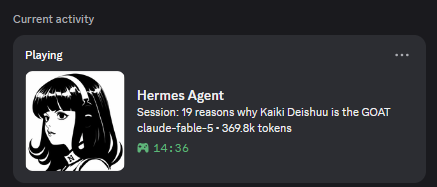
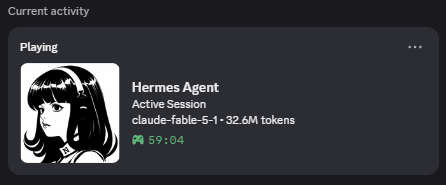
feat: default session_title_mode to generic and refresh preview asset

diff --git a/tests/test_plugin.py b/tests/test_plugin.py
@@ -472,3 +472,27 @@ def test_default_config_still_shows_the_activity_label(plugin, monkeypatch):
     assert payload["details"] == "[Running Terminal Command] Secret Project"
     assert payload["large_text"] == "Hermes Agent — Running Terminal Command"
     assert payload["state"] == "model-x • 4.2k tokens"
+
+
+def test_unconfigured_session_title_mode_defaults_to_generic(plugin, monkeypatch):
+    """When privacy config omits session_title_mode, it falls back to generic ('Active Session')."""
+    config = {
+        "presence": {"large_image": "hermes_logo", "large_text": "Hermes Agent"},
+        "privacy": {},
+    }
+    monkeypatch.setattr(plugin, "_load_config", lambda: config)
+    monkeypatch.setattr(
+        plugin.DiscordRPCPlugin,
+        "get_active_session_details",
+        lambda self: {"title": "Confidential Restructure", "model": "model-x", "total_tokens": 4242},
+    )
+
+    instance = plugin.DiscordRPCPlugin()
+    instance.rpc = _CapturingRPC()
+    instance.is_connected = True
+    instance.set_status("Active", hold=True)
+    payload = instance.rpc.updates[-1]
+
+    assert payload["details"] == "Active Session"
+    assert "Confidential Restructure" not in (payload["details"] or "")
+

diff --git a/__init__.py b/__init__.py
@@ -287,7 +287,7 @@ class DiscordRPCPlugin:
                 hide_model = bool(privacy.get("hide_model", False))
                 hide_tokens = bool(privacy.get("hide_tokens", False))
                 hide_tool = bool(privacy.get("hide_tool_status", False))
-                title_mode = str(privacy.get("session_title_mode", "full"))
+                title_mode = str(privacy.get("session_title_mode", "generic"))
 
                 if stealth:
                     details_str = None

diff --git a/README.md b/README.md
@@ -2,7 +2,7 @@
 
 [![CI](https://github.com/DarRahman/hermes-discord-presence/actions/workflows/validate.yml/badge.svg)](https://github.com/DarRahman/hermes-discord-presence/actions/workflows/validate.yml)
 [![Official Hermes Catalog](https://img.shields.io/badge/hermes--catalog-official-blueviolet)](https://hermes-agent.nousresearch.com/docs/plugins/hermes-discord-rpc)
-[![Plugin Version](https://img.shields.io/badge/version-v1.2.2-orange)](plugin.yaml)
+[![Plugin Version](https://img.shields.io/badge/version-v1.2.3-orange)](plugin.yaml)
 [![Python Version](https://img.shields.io/badge/python-3.10%2B-blue)](https://www.python.org/)
 [![License: MIT](https://img.shields.io/badge/license-MIT-green)](LICENSE)
 
@@ -84,10 +84,10 @@ presence:
 
 privacy:
   # Title display mode:
-  # - "full"    : Show original session title ("Session: <title>") [Default]
-  # - "generic" : Show generic text ("Active Session")
+  # - "generic" : Show generic text ("Active Session") [Default]
+  # - "full"    : Show original session title ("Session: <title>")
   # - "hidden"  : Omit title line completely (minimal 1-line layout)
-  session_title_mode: "full"
+  session_title_mode: "generic"
 
   # Privacy toggles:
   hide_model: false           # Mask active model name
